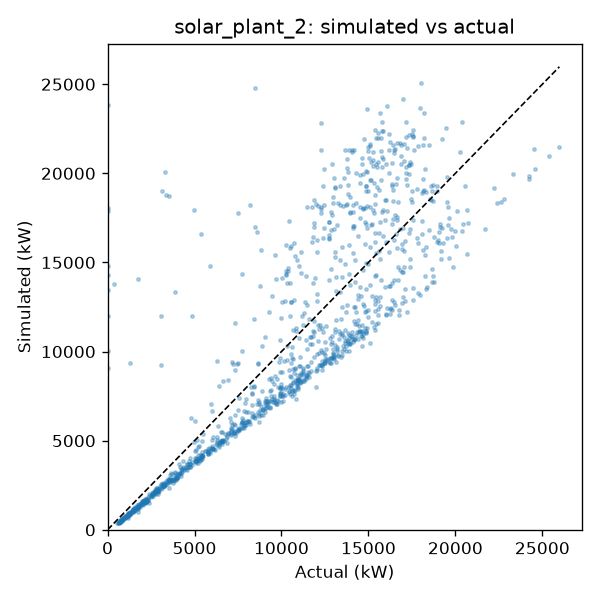
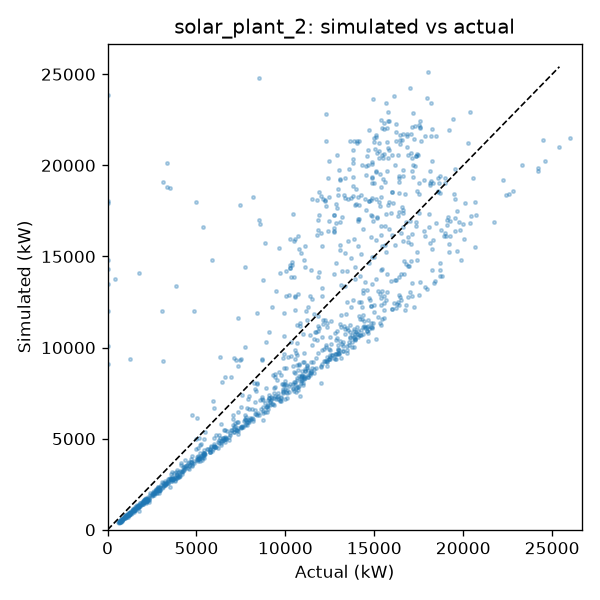
fix(03): regenerate validation reports with tune-only peak anchor

diff --git a/docs/data_notes.md b/docs/data_notes.md
@@ -936,12 +936,12 @@ Held-out 2024-2025 (diagnostic only, never used for selection): wind and RH impr
 
 Numbers below are copied from `reports/validation/metrics.json` (generated by `python -m swf validate`; plots `solar_plant_1_scatter.png`, `solar_plant_2_scatter.png`, `wind_scatter.png` in `reports/validation/`). The generated tables are in AUTO:validation.
 
-- Method: the solar check drives the shared `ac_from_poa` (PVWatts DC, DC-side loss, PVWatts inverter) with sensor POA and measured module temperature. It tests DC, temperature, loss and inverter, not Perez transposition (covered by unit tests and the clear-sky check). A Faiman-from-ambient variant is reported too (Plant 1 full 3.09%, Plant 2 full 12.84%).
+- Method: the solar check drives the shared `ac_from_poa` (PVWatts DC, DC-side loss, PVWatts inverter) with sensor POA and measured module temperature. It tests DC, temperature, loss and inverter, not Perez transposition (covered by unit tests and the clear-sky check). A Faiman-from-ambient variant is reported too (Plant 1 full 3.09%, Plant 2 full 13.14%).
 - Parsing (VAL-01): Plant 1 generation dates are day-first. AC_POWER is summed per timestamp over all 22 inverters; partial timestamps are dropped (Plant 1: 101 of 3158, Plant 2: 904 of 3259). IRRADIATION is plane-of-array in kW/m2 (max 1.222 for Plant 1, above clear-sky GHI; x1000 to W/m2, inferred from magnitude, RESEARCH A5). Plant 1 DC_POWER is mis-scaled x10 and never used. Plant clocks are assumed IST (A1; scores are timezone-independent). The data span 34 days (May-June), so there is no seasonality.
 - Loss (D-L1): `config/plant.yaml` keeps loss_pct 14 and `energy_sim.parquet` is not regenerated. Plant 1 tuned loss (tune window 15-31 May) is 9%: held-out nRMSE 3.36%, full 3.11%. At the configured 14%: held-out 4.34%, full 4.26%. Both pass the 10% target, so 14% stays as the conservative configured value. Caveat: the data identify only (1 - loss) x dc_kwp, so the tuned value is conditional on the anchor dc_kwp = 1.2 x peak AC / 0.96 (same convention as Davanagere) and comes from a different site.
-- Deviations from PRD 7.3 / EVAL-05: (1) nRMSE is RMSE / plant AC cap. The AC cap equals the observed Plant 1 peak by anchor construction (29150.2 kW; dc_kwp = 1.2 x peak / 0.96, so cap = 0.96 x dc_kwp / 1.2 = peak), so the PRD's normalise-by-observed-max holds for actuals, and sim and actual share one fixed denominator (normalising each by its own max would make loss tuning degenerate). (2) Daytime = sensor IRRADIATION > 0.02 kW/m2 instead of midpoint zenith < 85 deg, because plant coordinates are unknown.
+- Deviations from PRD 7.3 / EVAL-05: (1) nRMSE is RMSE / plant AC cap. The AC cap equals the observed tune-window (pre-held-out) peak by anchor construction; for Plant 1 this equals the full-span peak (29150.2 kW; dc_kwp = 1.2 x peak / 0.96, so cap = 0.96 x dc_kwp / 1.2 = peak), so the PRD's normalise-by-observed-max holds for actuals, and sim and actual share one fixed denominator (normalising each by its own max would make loss tuning degenerate). (2) Daytime = sensor IRRADIATION > 0.02 kW/m2 instead of midpoint zenith < 85 deg, because plant coordinates are unknown.
 - Plant 1 (gating): pass, held-out 3.36% against the 10% target.
-- Plant 2 (non-gating, D-L2): miss, held-out 14.39% (full 13.25%; 15.04% at the configured 14%). Tuned loss 17% is not at the grid edge (8-20%). Dropout statistics: only 2355 of 3259 timestamps have all 22 inverters reporting; at IRRADIATION > 0.3 kW/m2 the median inverter shows 16.7% zero AC and the worst 29.7% (Plant 1: 0.0% and 1.9%). Summed AC over a plant with frequent inverter dropouts measures the dropouts, not the chain, so the miss is not evidence against the physics.
+- Plant 2 (non-gating, D-L2): miss, held-out 14.74% (full 13.57%; 14.94% at the configured 14%). Tuned loss 15% is not at the grid edge (8-20%). Dropout statistics: only 2355 of 3259 timestamps have all 22 inverters reporting; at IRRADIATION > 0.3 kW/m2 the median inverter shows 16.7% zero AC and the worst 29.7% (Plant 1: 0.0% and 1.9%). Summed AC over a plant with frequent inverter dropouts measures the dropouts, not the chain, so the miss is not evidence against the physics.
 - Wind (VAL-03, D-L3, D-L4): `config/power_curve.csv` is the manufacturer Theoretical_Power_Curve column re-binned to 0.5 m/s centres, not a curve fitted to measured LV ActivePower (the PRD/REQUIREMENTS phrase "empirical curve" meant this re-binned manufacturer curve). Comparing it to LV ActivePower is therefore out-of-sample for the measured signal. Only the availability scalar (0.035, PRD) is LV-related and it is not re-fitted. Results (normalised by 3600 kW): full year sim 12.12% vs manufacturer column 12.94% (n=50530); 19 Oct-31 Dec ref slice sim 12.31% vs 13.08% (n=10098), against the PRD 13.0% and the 14% target: pass.
 - Wind limitations: measured availability (ws > 4 m/s, LV <= 0) is 3.54% vs 3.5% configured. Energy ratio LV/curve is 0.877, so the curve over-predicts mean output (sim MBE +10.1% full year). Density correction, hub-height extrapolation and NWP/NASA wind quality are not tested (standard air, turbine anemometer speed). The T1 clock zone is unknown and used natively.
 
@@ -953,7 +953,7 @@ Generated by `python -m swf validate`. Do not edit inside this block.
 | plant | gating | rows | ts dropped (partial inverters) | dc_kwp anchor | AC cap kW | tuned loss % | tune nRMSE % | held-out nRMSE % | full nRMSE % | held-out @cfg loss % | full @cfg loss % | hourly nRMSE % | MBE % | Faiman full nRMSE % | zero-AC daytime % worst/median | pass |
 |---|---|---|---|---|---|---|---|---|---|---|---|---|---|---|---|---|
 | plant_1 | yes | 1603 | 101 | 36437.8 | 29150.2 | 9 | 2.82 | 3.36 | 3.11 | 4.34 | 4.26 | 2.07 | -0.42 | 3.09 | 1.9 / 0.0 | yes |
-| plant_2 | no | 1164 | 904 | 32474.7 | 25979.8 | 17 | 10.04 | 14.39 | 13.25 | 15.03 | 13.79 | 10.79 | 0.09 | 12.84 | 29.7 / 16.7 | no |
+| plant_2 | no | 1164 | 904 | 31762.0 | 25409.6 | 15 | 10.26 | 14.74 | 13.57 | 14.94 | 13.73 | 11.05 | 0.26 | 13.14 | 29.7 / 16.7 | no |
 
 nRMSE = RMSE / plant AC cap on daytime rows (IRRADIATION > 0.02 kW/m2); gate = held-out from 2020-06-01 (local Asia/Kolkata) at tuned and at configured loss (14%), target <= 10%.
 
@@ -961,19 +961,19 @@ nRMSE = RMSE / plant AC cap on daytime rows (IRRADIATION > 0.02 kW/m2); gate = h
 
 | loss % | plant_1 nRMSE % | plant_2 nRMSE % |
 |---|---|---|
-| 8 | 2.84 | 11.55 |
-| 9 | 2.82 | 11.26 |
-| 10 | 2.91 | 11.00 |
-| 11 | 3.11 | 10.76 |
-| 12 | 3.41 | 10.56 |
-| 13 | 3.77 | 10.39 |
-| 14 | 4.18 | 10.25 |
-| 15 | 4.63 | 10.14 |
-| 16 | 5.12 | 10.07 |
-| 17 | 5.62 | 10.04 |
-| 18 | 6.14 | 10.05 |
-| 19 | 6.67 | 10.09 |
-| 20 | 7.21 | 10.17 |
+| 8 | 2.84 | 11.23 |
+| 9 | 2.82 | 11.00 |
+| 10 | 2.91 | 10.79 |
+| 11 | 3.11 | 10.62 |
+| 12 | 3.41 | 10.48 |
+| 13 | 3.77 | 10.37 |
+| 14 | 4.18 | 10.30 |
+| 15 | 4.63 | 10.26 |
+| 16 | 5.12 | 10.27 |
+| 17 | 5.62 | 10.30 |
+| 18 | 6.14 | 10.38 |
+| 19 | 6.67 | 10.48 |
+| 20 | 7.21 | 10.63 |
 
 ### Wind (T1, 10-min rows, nRMSE / rated kW)
 
